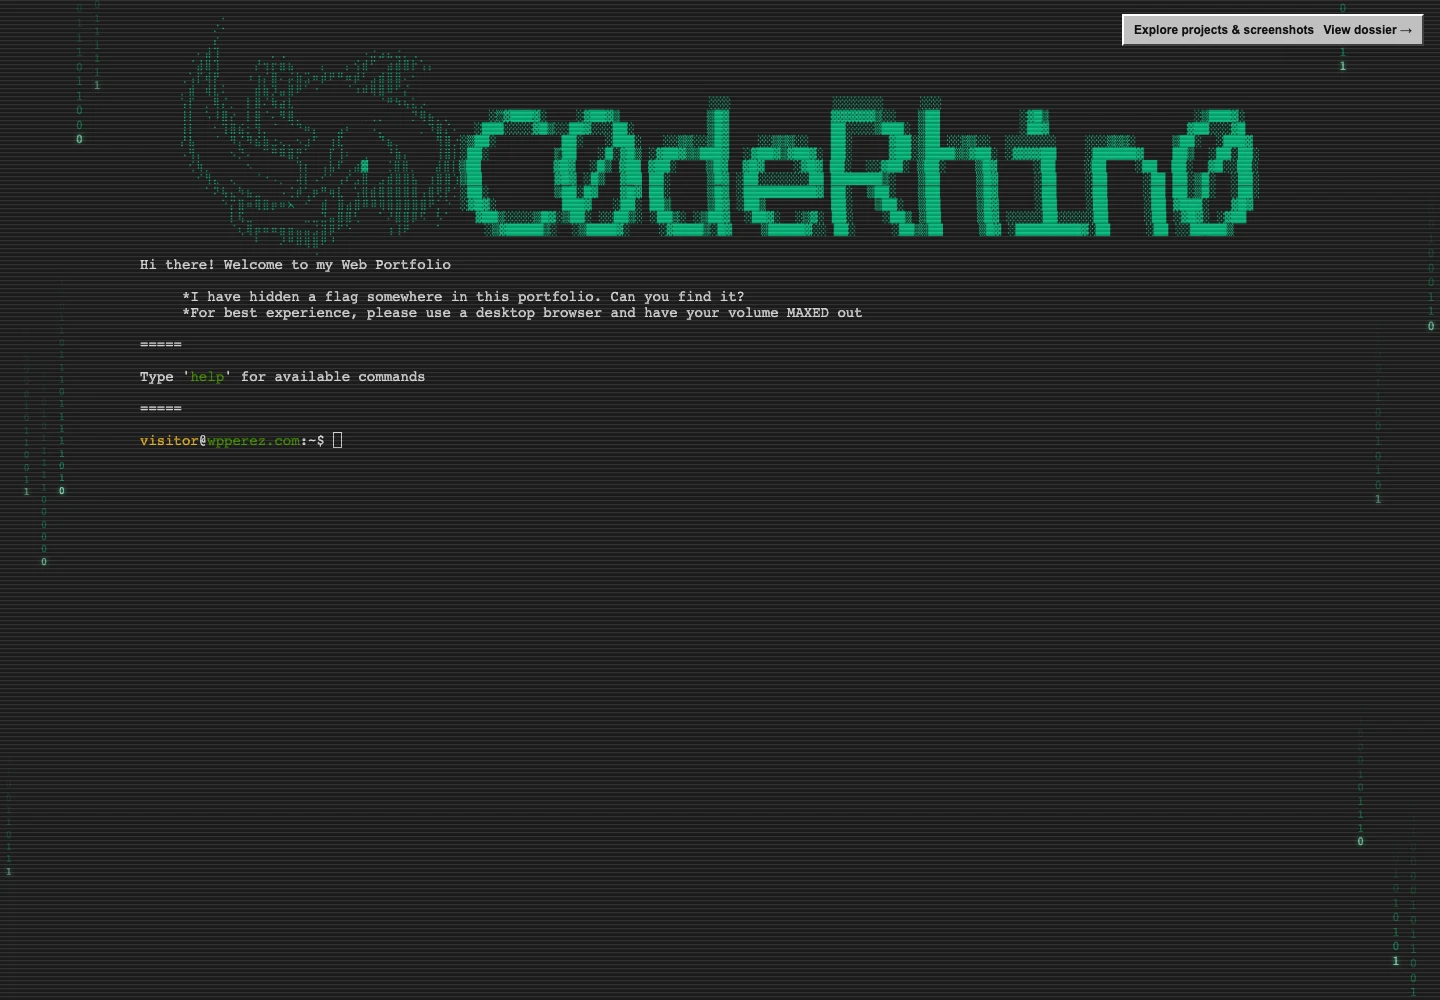
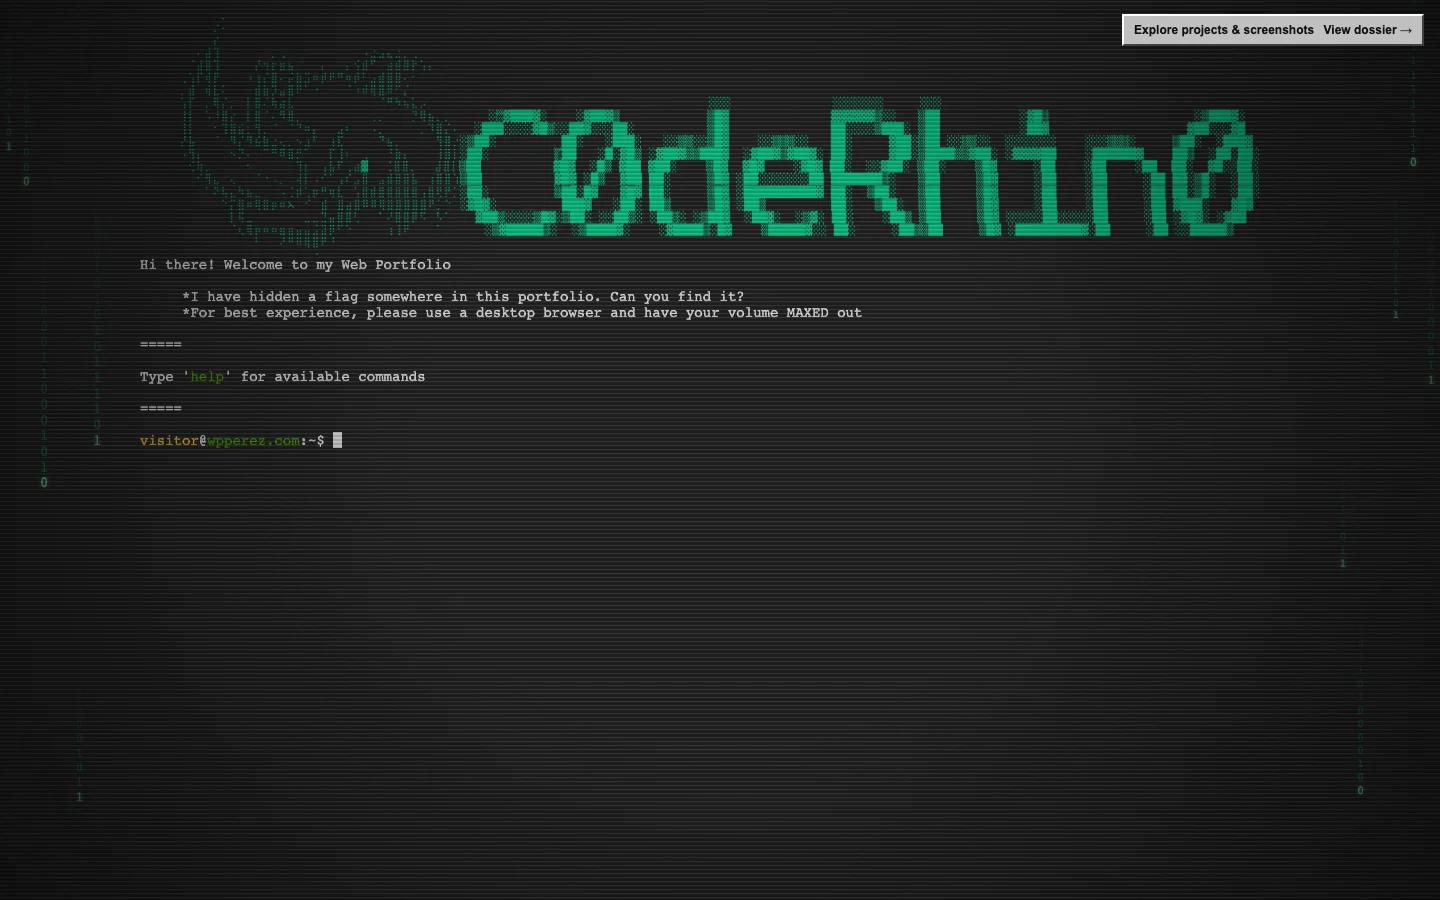
fix: restore terminal scrolling and scoped CRT vignette

diff --git a/src/components/Terminal.tsx b/src/components/Terminal.tsx
@@ -629,12 +629,16 @@ const Terminal: React.FC = () => {
 
     let Terminal: any, FitAddon: any;
     let terminal: any, fitAddon: any;
+    let cancelled = false;
+    let resizeObserver: ResizeObserver | undefined;
+    let removeResizeListener: (() => void) | undefined;
 
     (async () => {
       try {
         const xtermPkg = await import('xterm');
         const fitPkg = await import('xterm-addon-fit');
         await import('xterm/css/xterm.css');
+        if (cancelled) return;
         Terminal = xtermPkg.Terminal;
         FitAddon = fitPkg.FitAddon;
 
@@ -669,6 +673,7 @@ const Terminal: React.FC = () => {
         
         // Fit the terminal to the container and enforce column limit
         const customFit = () => {
+          if (cancelled) return;
           fitAddon.fit();
         };
         
@@ -704,6 +709,9 @@ const Terminal: React.FC = () => {
         // Handle window resize with custom fit
         const handleResize = () => customFit();
         window.addEventListener('resize', handleResize);
+        removeResizeListener = () => window.removeEventListener('resize', handleResize);
+        resizeObserver = new ResizeObserver(customFit);
+        resizeObserver.observe(terminalRef.current!);
 
         // Handle terminal input
         terminal.onKey(({ key, domEvent }: any) => {
@@ -760,18 +768,17 @@ const Terminal: React.FC = () => {
           }
         });
 
-        // Cleanup function
-        return () => {
-          window.removeEventListener('resize', handleResize);
-          if (terminal && !terminal.disposed) {
-            terminal.dispose();
-          }
-        };
       } catch (error) {
-        handleTerminalInitializationError(error);
+        if (!cancelled) handleTerminalInitializationError(error);
       }
     })();
-  }, [isInitialized]); // Only depend on isInitialized
+    return () => {
+      cancelled = true;
+      removeResizeListener?.();
+      resizeObserver?.disconnect();
+      terminal?.dispose();
+    };
+  }, []); // The terminal and its observer live for this component's lifetime.
 
   // Interrupt typewriter effect
   const interruptTypewriter = () => {
@@ -870,7 +877,7 @@ const Terminal: React.FC = () => {
             />
           </div>
         )}
-        <div ref={terminalRef} className="xterm-wrapper" />
+        <div className="xterm-wrapper"><div ref={terminalRef} className="xterm-mount" /></div>
         <div className="terminal-bottom-spacer" aria-hidden="true" />
         {tooltip && <TerminalTooltip text={tooltip.text} x={tooltip.x} y={tooltip.y} />}
         {subTerminalVisible && (

diff --git a/src/styles/globals.css b/src/styles/globals.css
@@ -128,6 +128,7 @@ html, body {
 .terminal-container {
   width: 100vw;
   height: 100vh;
+  height: 100dvh;
   padding: 0;
   margin: 0;
   display: flex;
@@ -135,7 +136,7 @@ html, body {
   align-items: center; /* Center the terminal horizontally only */
   justify-content: flex-start; /* Align to top */
 
-  /* Only allow horizontal scroll if content exceeds viewport */
+  /* The xterm viewport owns history scrolling inside this fixed-height shell. */
   overflow-x: hidden;
   overflow-y: hidden;
   -webkit-overflow-scrolling: touch;  /* smooth scrolling on iOS */
@@ -325,6 +326,12 @@ html, body {
   opacity: 0;
 }
 
+/* CRT shading belongs to terminal mode; dossier surfaces stay flat. */
+.portfolio-shell--terminal .crt-overlay__vignette {
+  background: radial-gradient(circle at center, transparent 35%, rgba(0, 0, 0, 0.7) 100%);
+  opacity: 0.8;
+}
+
 @keyframes scanlines {
   0% {
     transform: translateY(0);
@@ -477,6 +484,7 @@ html, body {
 }
 
 .rhino-art-viewport {
+  flex-shrink: 0;
   width: min(1200px, 100vw);
   padding: 16px 20px 0;
   display: flex;
@@ -495,13 +503,13 @@ html, body {
 /* Terminal wrapper to constrain width and center */
 .xterm-wrapper {
   width: min(1200px, 100vw);
-  height: 100%;
+  min-height: 0;
   padding: 0 20px 20px;
   margin: 0 auto;
   box-sizing: border-box;
   display: flex;
   justify-content: center;
-  flex: 1;
+  flex: 1 1 0;
 }
 
 .terminal-bottom-spacer {
@@ -509,19 +517,27 @@ html, body {
   flex-shrink: 0;
 }
 
+/* FitAddon measures this unpadded mount, excluding the wrapper's gutters. */
+.xterm-mount {
+  width: 100%;
+  height: 100%;
+  min-width: 0;
+  min-height: 0;
+}
+
 /* Make sure xterm itself fits within its container */
 .xterm {
   width: 100% !important;
-  height: 100% !important;
+  height: auto !important;
   white-space: nowrap !important;
   max-width: 100% !important;
   margin: 0 auto !important;
 }
 
-/* Viewport: scroll only horizontally */
+/* Native scrolling exposes xterm history as well as wide output. */
 .xterm-viewport {
   overflow-x: auto !important;
-  overflow-y: hidden !important;
+  overflow-y: auto !important;
   scrollbar-width: thin;
   scrollbar-color: var(--scrollbar-thumb) var(--scrollbar-track);
   scrollbar-gutter: stable both-edges;

diff --git a/README.md b/README.md
@@ -147,6 +147,8 @@ The dossier landing page and Projects folder show a Windows-style **Project scre
 
 Update the typed manifest when adding a capture. Describe what was actually exercised and any integration left untested; individual images can override the project's evidence label and note. Preserve original PNGs in your local capture archive; repository copies use WebP to reduce page weight. Hover or keyboard focus pauses the strip, and touch pauses it before selection. Reduced-motion preferences disable automatic scrolling. The enlarged viewer supports Escape, left/right arrows, and a source link.
 
-Use solid color surfaces and beveled borders throughout the interface; do not add gradients. Gallery cards reserve equal rows for the image, two-line caption, and evidence label, with padding and borders included in their dimensions. Collections scroll only when their contents exceed the available width. Every visible card, including a repeated copy in a scrolling strip, opens its screenshot. Repeated copies stay outside the keyboard sequence and return focus to the accessible strip after closing the viewer.
+Use solid color surfaces and beveled borders in the dossier and galleries; do not add gradients to those surfaces. Preserve the terminal's CRT effects, including its vignette. Gallery cards reserve equal rows for the image, two-line caption, and evidence label, with padding and borders included in their dimensions. Collections scroll only when their contents exceed the available width. Every visible card, including a repeated copy in a scrolling strip, opens its screenshot. Repeated copies stay outside the keyboard sequence and return focus to the accessible strip after closing the viewer.
 
 Terminal mode uses a bounded canvas of staggered binary trails with fading tails and brighter tips, fitted to the content margins. Animation stops when the tab is hidden or reduced motion is enabled, and the overlay is disabled in dossier mode and on small screens.
+
+Terminal history scrolls inside the xterm viewport with wheel, trackpad, touch, and scrollbar input. The terminal refits when its available space changes, including banner loading, banner visibility, and window resizing. Keep the wrapper's minimum height at zero so its history viewport fits inside the terminal shell. The CRT vignette is active only in terminal mode.
